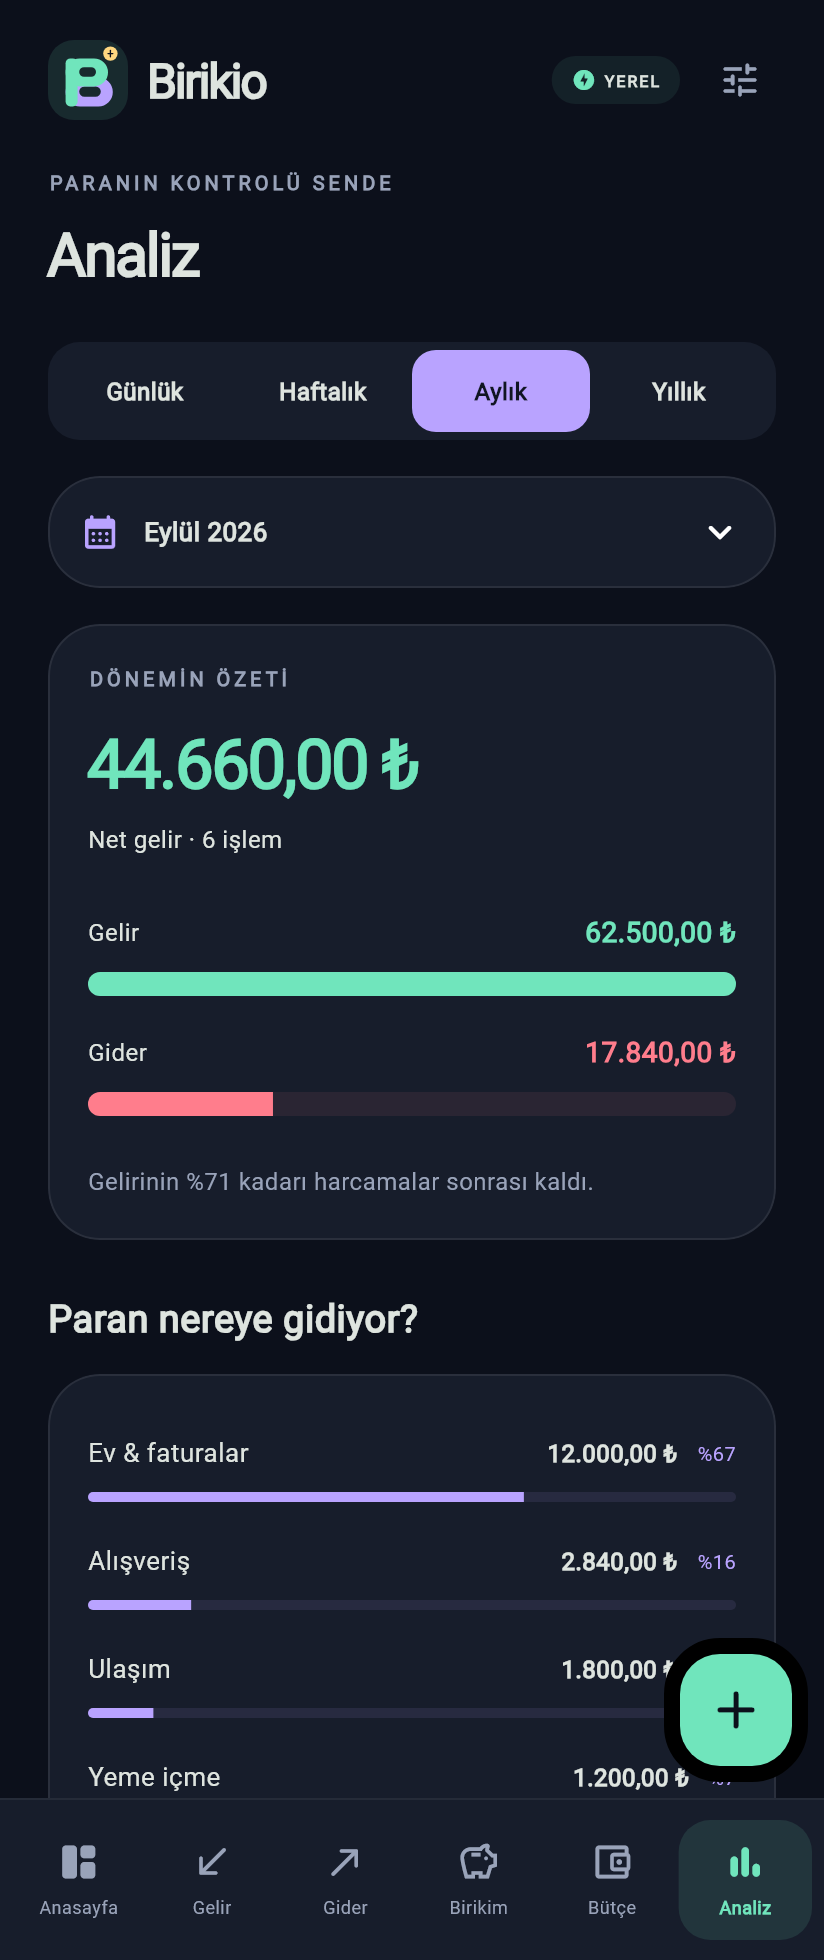
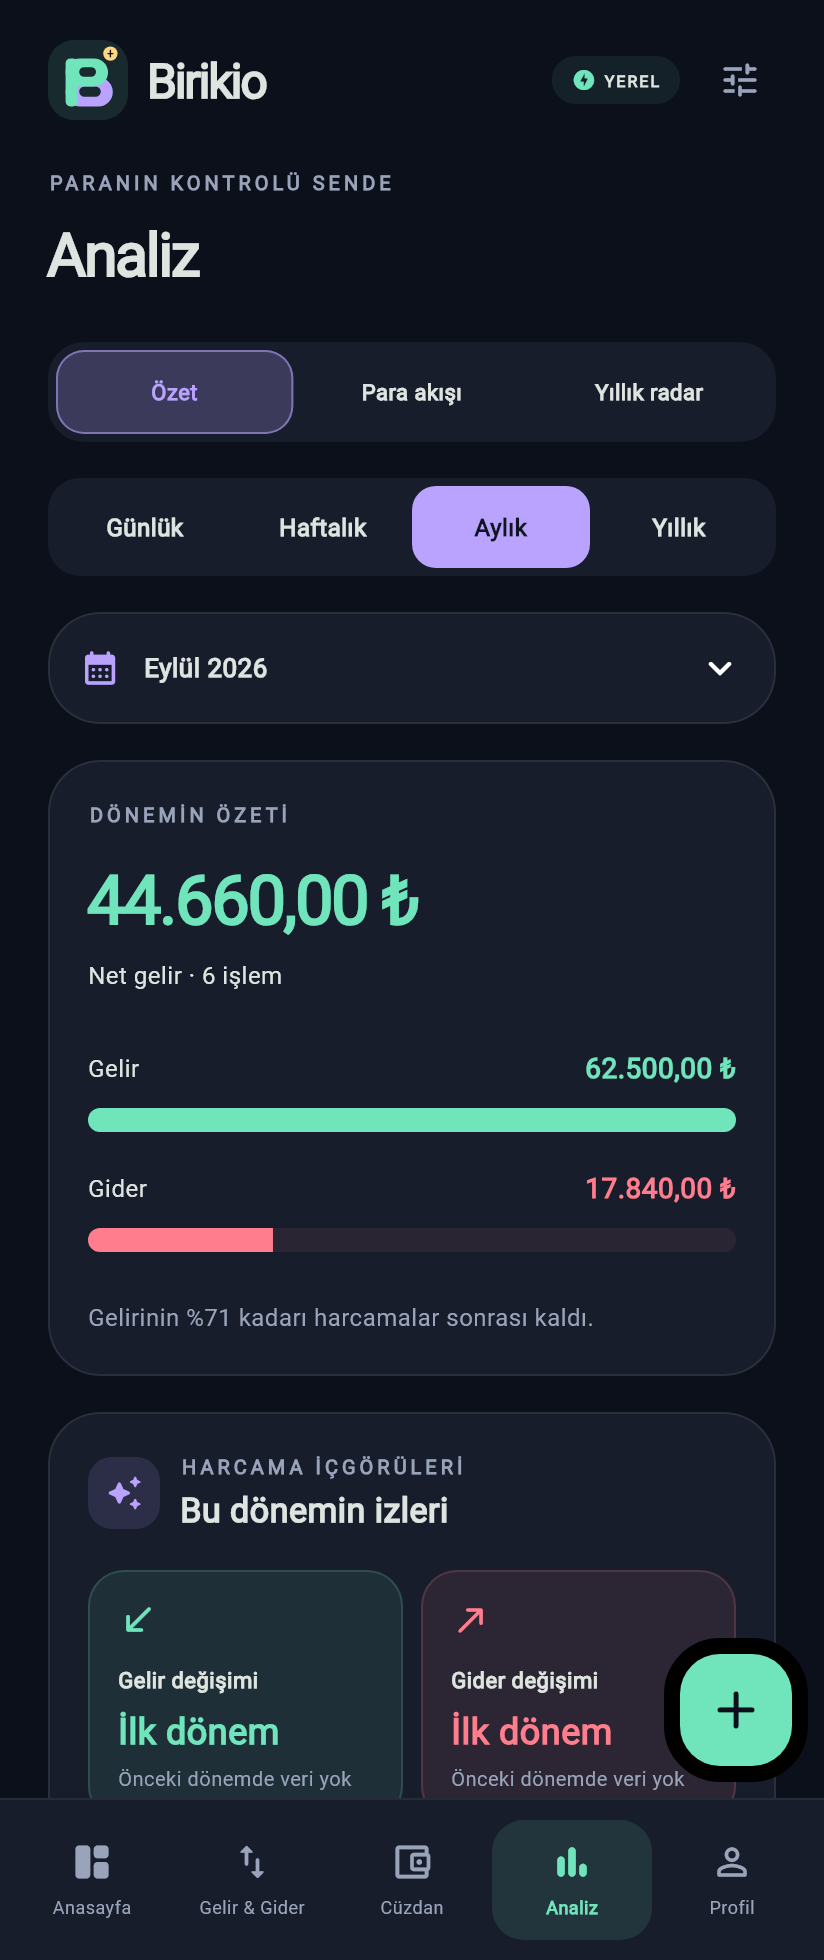
Refresh README for current analysis and screenshots

diff --git a/README.md b/README.md
@@ -41,7 +41,7 @@ Birikio, günlük para takibini birikim hedeflerinle bir araya getirir. İster i
 | **Anasayfa** | Hedefini, kullanılabilir bakiyeni, aylık özeti, finans yönetimi puanını ve geciken ödemeleri gör; kartları açıp kapat ve sıralarını düzenle. |
 | **Gelir & Gider** | Tür, kategori, tarih, tutar ve tekrara göre filtrele; özel kategorilerini ve düzenli ödemelerini yönet. |
 | **Cüzdan** | Birikim hedeflerini tarih ve aylık katkıyla planla; genel ve kategori bütçelerini izle. |
-| **Analiz** | Dönem karşılaştırmasını, hareketli harcama dağılımını, Paranın Yolculuğu akışını ve Yıllık Masraf Radarı'nı gör. |
+| **Analiz** | Günlük, haftalık, aylık veya yıllık dönemi seç; gelir/gider karşılaştırmasını, harcama içgörülerini, kategori dağılımını, Paranın Yolculuğu akışını ve Yıllık Masraf Radarı'nı gör. |
 | **Profil** | Kategorileri ve yerel bildirimleri yönet; JSON yedek oluştur/geri yükle ve Türkçe CSV aktar. |
 
 ### Daha az uğraş, daha düzenli takip
@@ -55,7 +55,7 @@ Birikio, günlük para takibini birikim hedeflerinle bir araya getirir. İster i
 - **Hızlı ekleme:** her ekrandaki **+** düğmesinden gelir, gider veya birikim hedefi oluştur.
 - **Düzenlenebilir ana ekran:** başlıktaki düzenleme simgesinden hedef, aylık özet, ayrı bakiye, ayrı gelir/gider, son hareketler ve geciken ödeme kartlarını seçip sırala. Düzen cihazda saklanır. Varsayılan görünümde bakiye, gelir ve gider aylık özet kartında birlikte yer alır.
 - **Finans yönetimi puanı:** son üç tamamlanmış ay ve içinde bulunulan ayın kayıtlarını; gelir/gider dengesi, bütçe limitleri, birikime yatırma ve çekme, düzenli faturalar, gelir düzeni, aylık gidişat, bakiye tamponu ve harcama dağılımı üzerinden değerlendirir. Detay ekranı her alanın puanını ve kayda dayalı yorumları gösterir. Verisi olmayan alanlar ağırlık hesabından çıkarılır; otomatik ödeme kayıtları banka tahsilatının kanıtı değildir.
-- **Paranın Yolculuğu:** seçili dönemin gelirlerini, gider kategorilerini, birikime yatırma/çekmeyi ve dönemlik artışı ayrı akışlar halinde gösterir. Bir akışa dokununca onu oluşturan kayıtlar açılır. Çember grafiği harcama ve birikim paylarını hareketli dilimlerle gösterir; birikim aktarımı gelir veya gider sayılmaz.
+- **Paranın Yolculuğu:** seçili dönemin gelirlerini, gider kategorilerini, birikime yatırma/çekmeyi ve dönemlik artışı ayrı akışlar halinde gösterir. Bir akışa dokununca onu oluşturan kayıtlar açılır. Çember grafiğinde paylar eşit kalınlıktaki dilimlerle gösterilir; dilime veya açıklamasına dokununca yüzdesi ve tutarı seçilir. Birikim aktarımı gelir veya gider sayılmaz.
 - **Yıllık masraf radarı:** yıllık tekrarlayan giderleri otomatik gösterir; ayrıca sigorta, bakım veya okul gibi masrafları plan olarak ekleyebilirsin. Ay takvimi ve vade tarihine göre aylık ayırma önerisi sunar. Manuel planlar bakiyeyi değiştirmez veya ödendi sayılmaz.
 - **Aylık birikim sözü:** her hedefe isteğe bağlı aylık tutar ve ayın son gününü ekleyebilirsin. Vade geçince eksik tutar hedef kartında ve Profil uyarısında görünür; zamanında ve gecikmeli yatırımlar finans puanında ayrı değerlendirilir. Eski hedefler kendiliğinden gecikmiş sayılmaz.
 - **Profil ve yedek:** Profil, en önemli güncel uyarıyı ve son yedek tarihini gösterir. JSON yedeği güncel veri şemasını, aylık planları, ekran tercihlerini ve kurulu uygulamanın sürümünü taşır.
@@ -141,6 +141,8 @@ lib/
 ├── data/
 │   ├── store.dart        # Modeller, hesaplar, tekrarlar ve yerel saklama
 │   ├── analytics.dart    # Dönem karşılaştırmaları
+│   ├── money_journey.dart # Dönemlik para akışı hesabı
+│   ├── annual_radar.dart # Yıllık gider takvimi ve plan hesabı
 │   ├── financial_health.dart # Finans yönetimi puanı ve yorumlar
 │   ├── goal_plan.dart   # Aylık hedef vadeleri ve eksik tutar
 │   ├── backup.dart       # JSON yedek ve CSV aktarımı
@@ -149,7 +151,10 @@ lib/
 └── ui/
     ├── app.dart          # Tema, navigasyon ve ana ekranlar
     ├── forms.dart        # Kayıt, hedef ve aktarım formları
-    ├── reports.dart      # Bütçe ve dönem analizleri
+    ├── reports.dart      # Bütçe, dönem analizi ve içgörüler
+    ├── money_journey.dart # Para akışı görünümü
+    ├── annual_radar.dart # Yıllık masraf radarı görünümü
+    ├── orbit_chart.dart  # Etkileşimli halka grafik
     ├── palette.dart      # Temaya uygun finans renkleri
     ├── widgets.dart      # Ortak bileşenler ve görsel animasyonlar
     ├── brand.dart        # Birikio logosu
@@ -165,7 +170,7 @@ flutter analyze
 flutter test
 ```
 
-Testler; para ayrıştırma, ay sonu ve artık yıl davranışları, tekrarların tekilleştirilmesi, aktarım bakiyesi, kalıcılık, veri geçişi, bütçe ve fatura hesapları, tema kontrastı, widget seçimi, hedef tamamlama ve açılış akışlarını kapsar.
+Testler; para ayrıştırma, ay sonu ve artık yıl davranışları, tekrarların tekilleştirilmesi, aktarım bakiyesi, kalıcılık, veri geçişi, bütçe ve fatura hesapları, para akışı, yıllık masraf planları, dar ekran yerleşimi, tema kontrastı, widget seçimi, hedef tamamlama ve açılış akışlarını kapsar.
 
 ### Görselleri yeniden üretme
 
